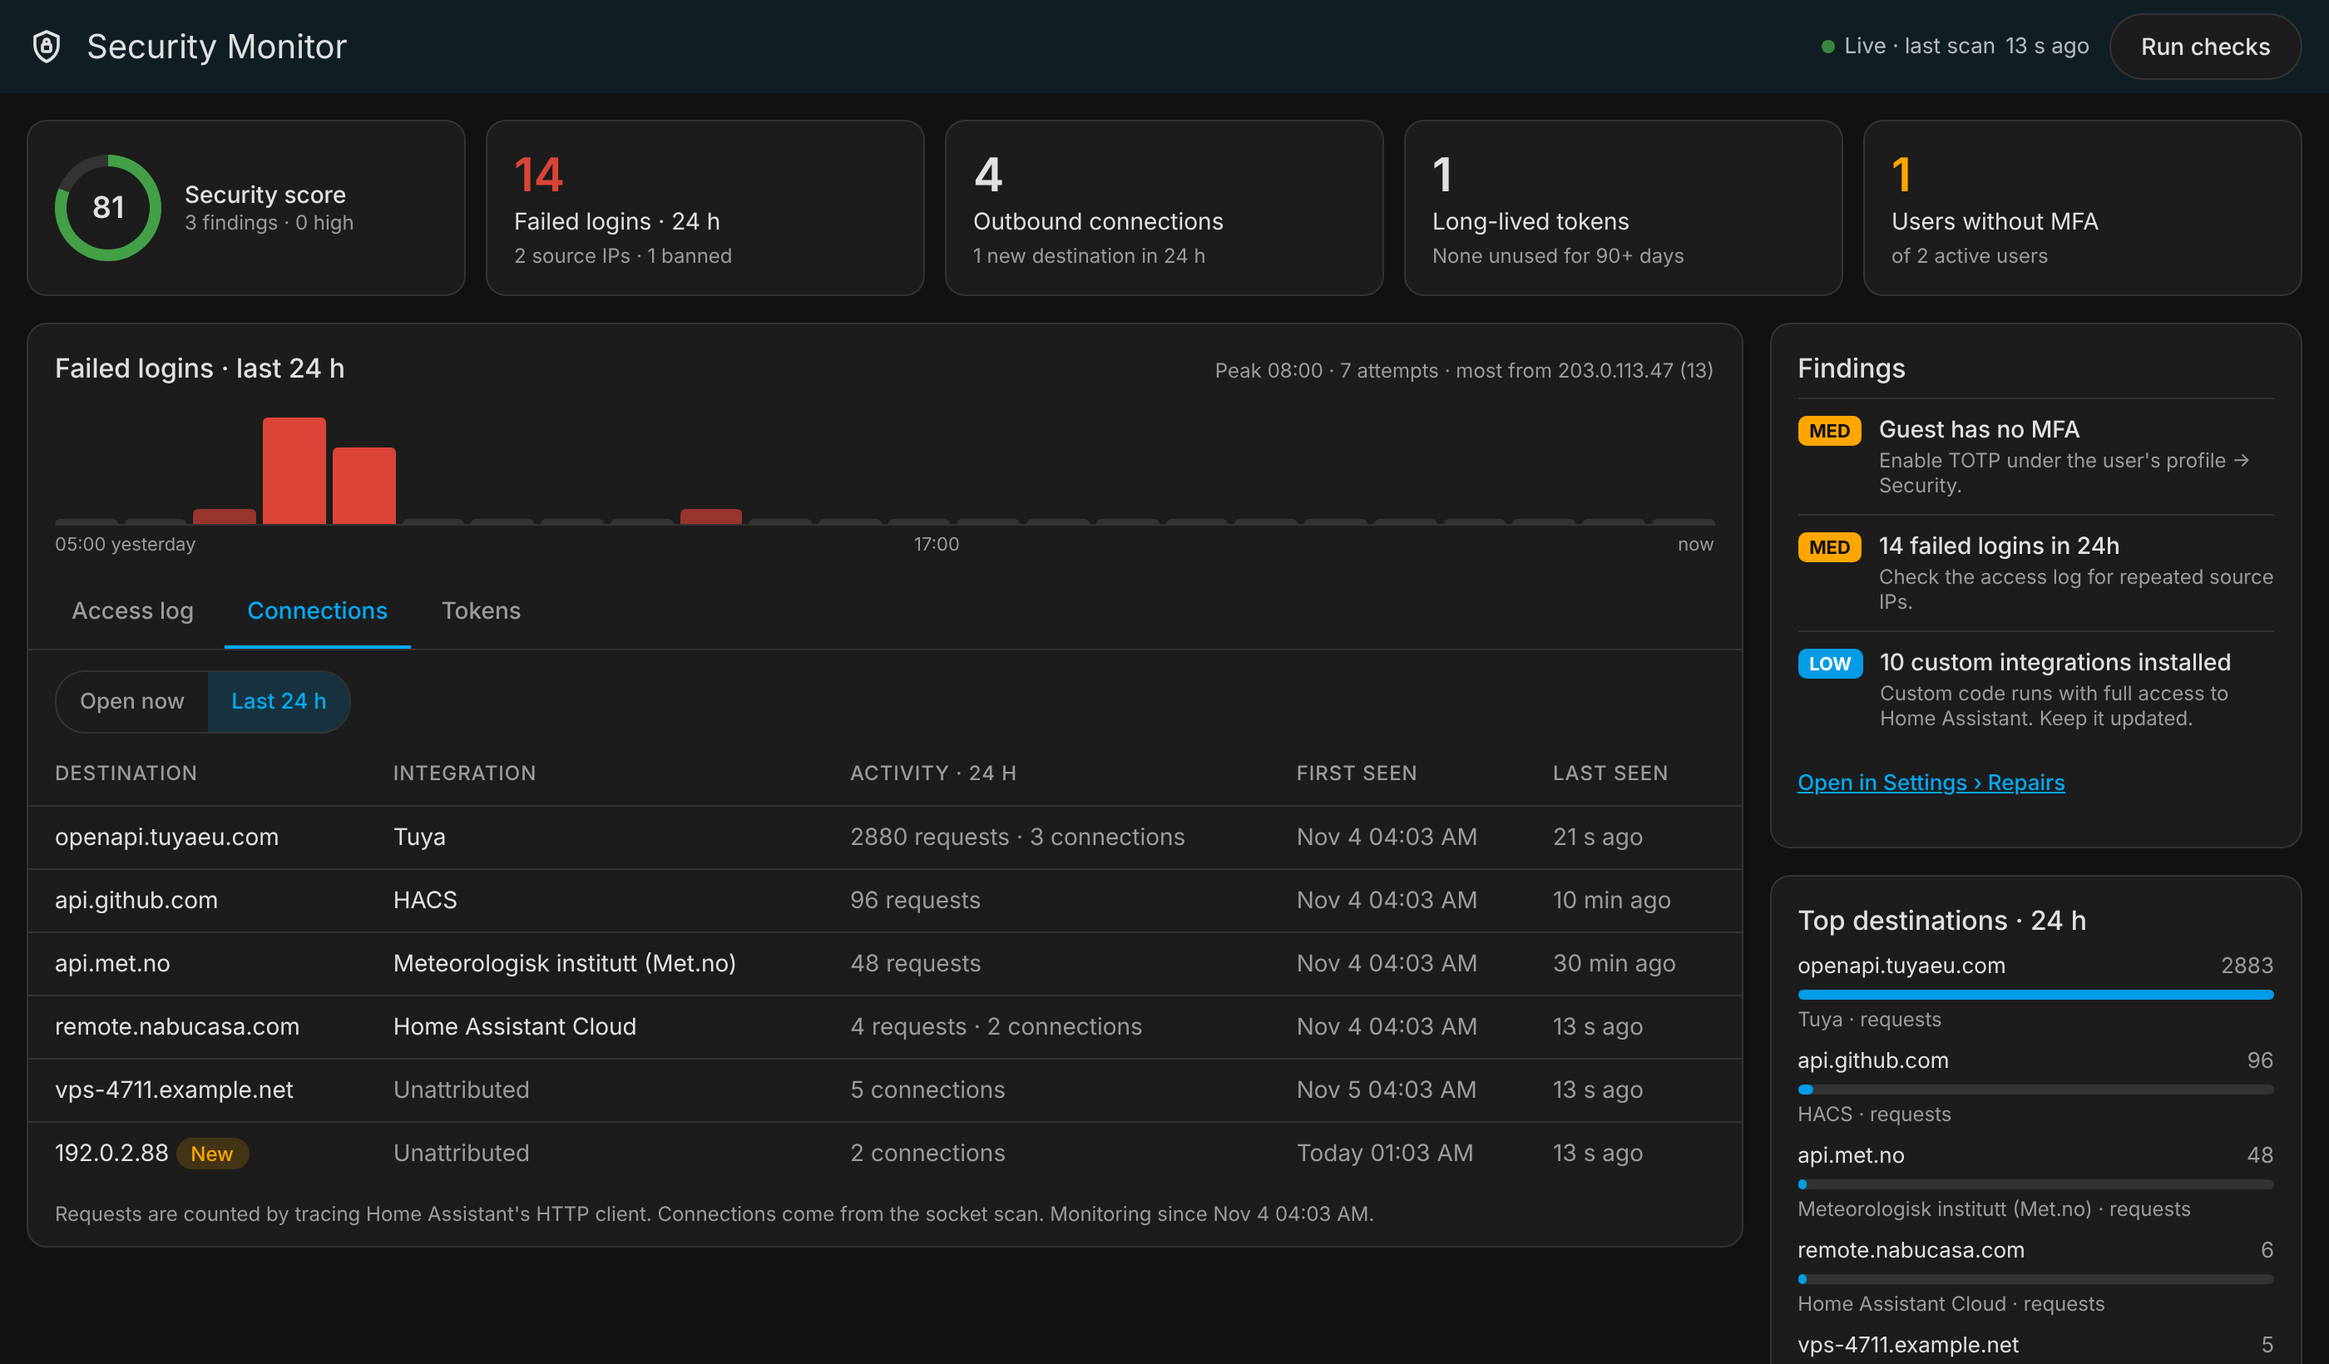
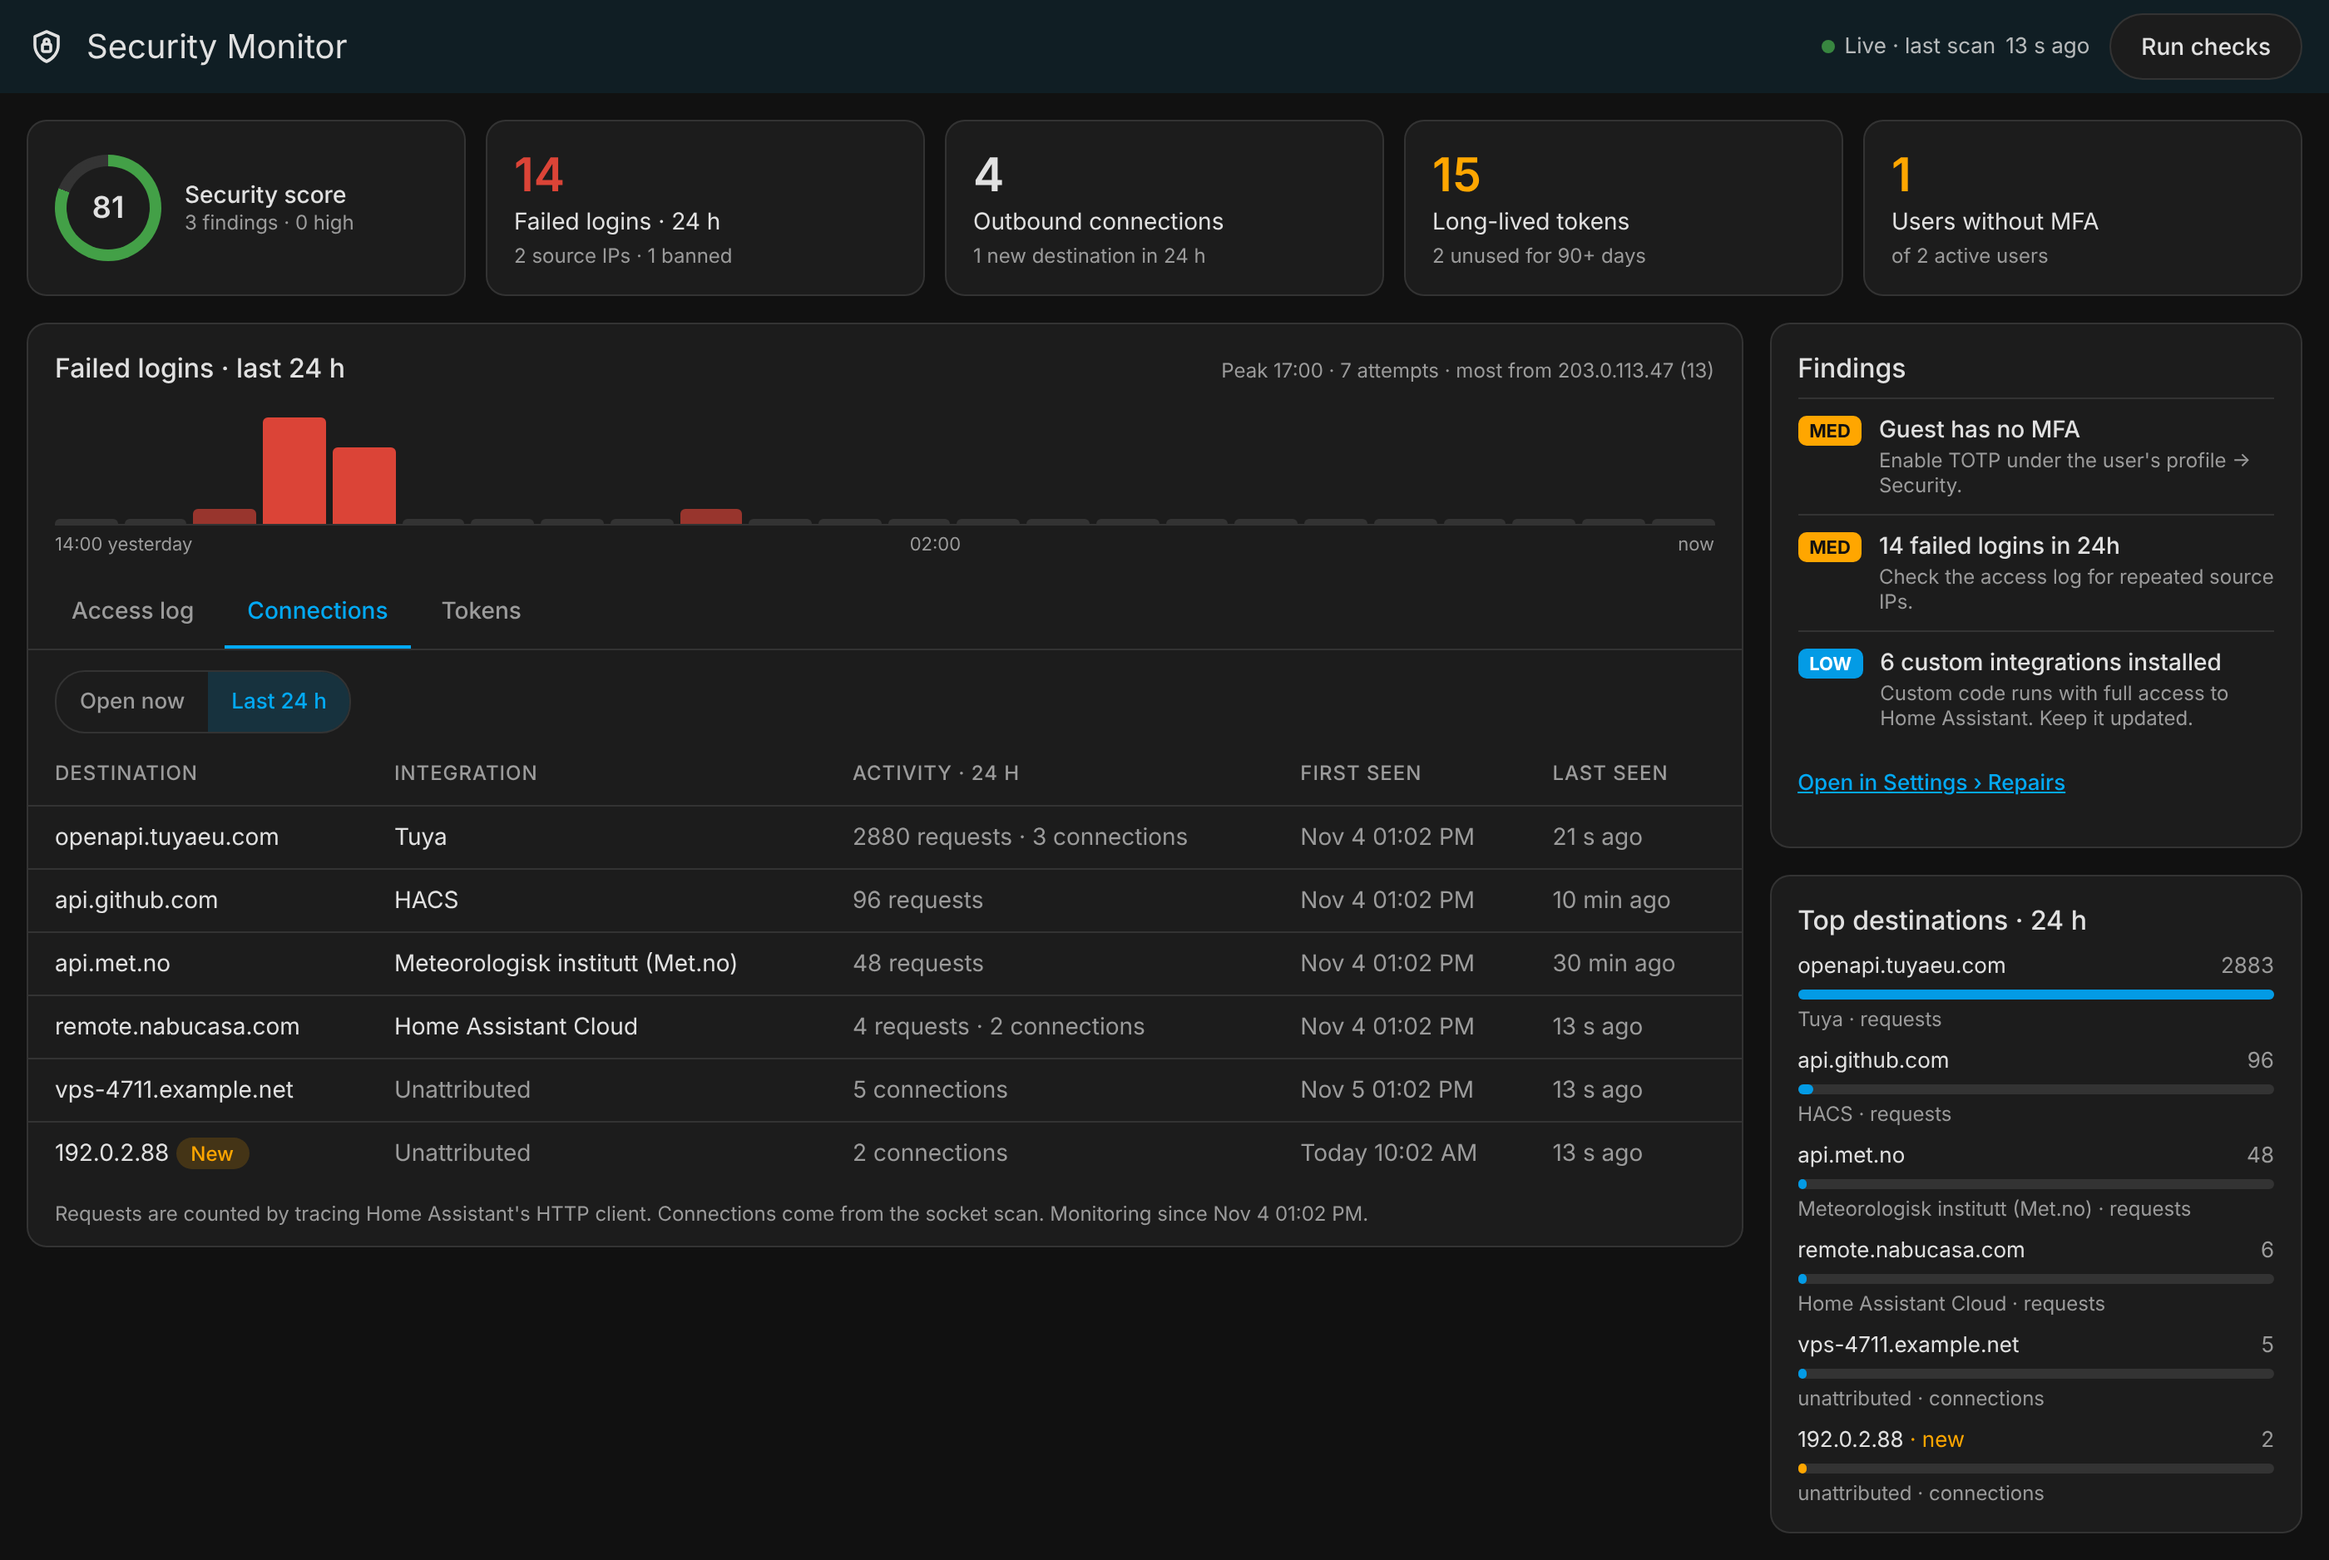
Add pagination to Access log, Connections and Tokens (v0.4.1)
- Pager under each table: range ("1–10 of 87"), first/previous/next/
  last buttons and the current page; hidden when everything fits
- Rows per page: 10 (default), 25, 50 or 100, shared by all tables and
  remembered per browser
- Each table (Access log, Open now, Last 24 h, Tokens) keeps its own
  page; the page is clamped when a list shrinks through live updates
- The panel now receives the whole access log buffer (up to 500
  events) instead of the newest 200
- Fix "1 days ago" → "1 day ago"
- README screenshots re-rendered with sample data, showing the pager

Claude-Session: https://claude.ai/code/session_01A4WxsJHtchbZ62AkhGdSiS

diff --git a/custom_components/security_monitor/frontend/security-monitor-panel.js b/custom_components/security_monitor/frontend/security-monitor-panel.js
@@ -18,7 +18,8 @@ const ago = (iso) => {
   if (s < 60) return `${s} s ago`;
   if (s < 3600) return `${Math.round(s / 60)} min ago`;
   if (s < 86400) return `${Math.round(s / 3600)} h ago`;
-  return `${Math.round(s / 86400)} days ago`;
+  const days = Math.round(s / 86400);
+  return `${days} ${days === 1 ? "day" : "days"} ago`;
 };
 
 const hourLabel = (date) => `${String(date.getHours()).padStart(2, "0")}:00`;
@@ -75,6 +76,15 @@ const fmtDateTime = (iso) => {
   return sameDay ? `Today ${time}` : `${d.toLocaleDateString([], { day: "numeric", month: "short" })} ${time}`;
 };
 
+const PAGE_SIZES = [10, 25, 50, 100];
+const DEFAULT_PAGE_SIZE = 10;
+const PAGE_SIZE_KEY = "security_monitor.page_size";
+const chevron = (d) => `<svg aria-hidden="true" viewBox="0 0 24 24" width="18" height="18" fill="none" stroke="currentColor" stroke-width="2" stroke-linecap="round" stroke-linejoin="round"><path d="${d}"></path></svg>`;
+const ICON_FIRST = chevron("M17 18l-6-6 6-6M7 6v12");
+const ICON_PREV = chevron("M15 18l-6-6 6-6");
+const ICON_NEXT = chevron("M9 18l6-6-6-6");
+const ICON_LAST = chevron("M7 18l6-6-6-6M17 6v12");
+
 const KIND_LABEL = { failed_login: "Failed login", banned: "IP banned", token_used: "Token used" };
 
 class SecurityMonitorPanel extends HTMLElement {
@@ -84,6 +94,12 @@ class SecurityMonitorPanel extends HTMLElement {
     this._data = null;
     this._tab = "access";
     this._netView = "now";
+    this._pages = { access: 0, now: 0, "24h": 0, tokens: 0 };
+    this._pageSize = DEFAULT_PAGE_SIZE;
+    try {
+      const saved = parseInt(localStorage.getItem(PAGE_SIZE_KEY), 10);
+      if (PAGE_SIZES.includes(saved)) this._pageSize = saved;
+    } catch (_) { /* storage unavailable: use the default */ }
     this._running = false;
   }
 
@@ -258,8 +274,43 @@ class SecurityMonitorPanel extends HTMLElement {
       </div>`;
   }
 
+  // Slice `items` for the table `key` and build its pager. The page is clamped,
+  // so a list that shrinks (live updates) never leaves you on an empty page.
+  _paginate(key, items, label) {
+    const size = this._pageSize;
+    const total = items.length;
+    const pages = Math.max(1, Math.ceil(total / size));
+    const page = Math.min(this._pages[key] || 0, pages - 1);
+    this._pages[key] = page;
+    const start = page * size;
+    const slice = items.slice(start, start + size);
+    if (total <= PAGE_SIZES[0]) return { slice, pager: "" };
+
+    const btn = (to, icon, text, disabled) =>
+      `<button type="button" class="pg" data-pager="${key}" data-to="${to}" aria-label="${text}" title="${text}" ${disabled ? "disabled" : ""}>${icon}</button>`;
+    const sizes = PAGE_SIZES.map((n) => `<option value="${n}" ${n === size ? "selected" : ""}>${n}</option>`).join("");
+    return {
+      slice,
+      pager: `
+        <nav class="pager" aria-label="${label} pages">
+          <label class="pg-size">Rows per page
+            <select data-pagesize>${sizes}</select>
+          </label>
+          <span class="pg-range">${start + 1}–${Math.min(start + size, total)} of ${total}</span>
+          <span class="pg-buttons">
+            ${btn(0, ICON_FIRST, "First page", page === 0)}
+            ${btn(page - 1, ICON_PREV, "Previous page", page === 0)}
+            <span class="pg-page">Page ${page + 1} of ${pages}</span>
+            ${btn(page + 1, ICON_NEXT, "Next page", page >= pages - 1)}
+            ${btn(pages - 1, ICON_LAST, "Last page", page >= pages - 1)}
+          </span>
+        </nav>`,
+    };
+  }
+
   _accessTable(d) {
-    const rows = d.auth.events.map((e) => `
+    const { slice, pager } = this._paginate("access", d.auth.events, "Access log");
+    const rows = slice.map((e) => `
       <tr>
         <td class="muted"><span data-ago="${esc(e.timestamp)}">${ago(e.timestamp)}</span></td>
         <td><span class="chip ${e.kind}">${KIND_LABEL[e.kind] || esc(e.kind)}</span></td>
@@ -270,7 +321,7 @@ class SecurityMonitorPanel extends HTMLElement {
     return `<table>
       <thead><tr><th>When</th><th>Event</th><th>Source IP</th><th>User</th><th>Detail</th></tr></thead>
       <tbody>${rows || `<tr><td colspan="5" class="empty">No access events recorded yet.</td></tr>`}</tbody>
-    </table>`;
+    </table>${pager}`;
   }
 
   _networkTable(d) {
@@ -294,7 +345,8 @@ class SecurityMonitorPanel extends HTMLElement {
 
   _networkNow(net) {
     const isNew = new Set(net.destinations_24h.filter((x) => x.new).map((x) => x.host));
-    const rows = net.connections.map((c) => {
+    const { slice, pager } = this._paginate("now", net.connections, "Open connections");
+    const rows = slice.map((c) => {
       const host = c.traced_host || c.hostname || c.remote_ip;
       const rdns = c.traced_host && c.hostname && c.hostname !== c.traced_host
         ? `<div class="sub" title="Reverse DNS">${esc(c.hostname)}</div>` : "";
@@ -309,12 +361,13 @@ class SecurityMonitorPanel extends HTMLElement {
     return `<table>
       <thead><tr><th>Destination</th><th>Remote</th><th>Integration</th><th>Seen</th></tr></thead>
       <tbody>${rows || `<tr><td colspan="4" class="empty">No external connections right now.</td></tr>`}</tbody>
-    </table>
+    </table>${pager}
     <div class="foot">${plural(net.connections.length, "established connection", "established connections")} · ${plural(net.listening.length, "listening socket", "listening sockets")}</div>`;
   }
 
   _network24h(net) {
-    const rows = net.destinations_24h.map((x) => {
+    const { slice, pager } = this._paginate("24h", net.destinations_24h, "Destinations");
+    const rows = slice.map((x) => {
       const activity = [
         x.requests ? plural(x.requests, "request", "requests") : null,
         x.connections ? plural(x.connections, "connection", "connections") : null,
@@ -334,12 +387,13 @@ class SecurityMonitorPanel extends HTMLElement {
     return `<table>
       <thead><tr><th>Destination</th><th>Integration</th><th>Activity · 24 h</th><th>First seen</th><th>Last seen</th></tr></thead>
       <tbody>${rows || `<tr><td colspan="5" class="empty">No outbound traffic recorded in the last 24 h.</td></tr>`}</tbody>
-    </table>
+    </table>${pager}
     <div class="foot">Requests are counted by tracing Home Assistant's HTTP client. Connections come from the socket scan. Monitoring since ${fmtDateTime(net.monitoring_since)}.</div>`;
   }
 
   _tokensTable(d) {
-    const rows = d.auth.tokens.map((t) => `
+    const { slice, pager } = this._paginate("tokens", d.auth.tokens, "Tokens");
+    const rows = slice.map((t) => `
       <tr>
         <td>${esc(t.user)}</td>
         <td>${esc(prettyClient(t.client_name, t.type === "long_lived_access_token" ? null : t.type))}</td>
@@ -351,7 +405,7 @@ class SecurityMonitorPanel extends HTMLElement {
     return `<table>
       <thead><tr><th>User</th><th>Client</th><th>Type</th><th>Last used</th><th>Last IP</th><th><span class="sr">Status</span></th></tr></thead>
       <tbody>${rows || `<tr><td colspan="6" class="empty">No tokens.</td></tr>`}</tbody>
-    </table>`;
+    </table>${pager}`;
   }
 
   _findings(d) {
@@ -493,6 +547,17 @@ class SecurityMonitorPanel extends HTMLElement {
         .fill { height:6px; border-radius:3px; }
         .foot { font-size:12px; color:var(--secondary-text-color); padding:10px 16px 12px; }
         .side .foot { padding:12px 0 0; }
+        .pager { display:flex; flex-wrap:wrap; align-items:center; justify-content:flex-end; gap:8px 20px;
+          padding:8px 16px; border-top:1px solid var(--divider-color); font-size:13px; color:var(--secondary-text-color); }
+        .pg-size { display:inline-flex; align-items:center; gap:8px; }
+        .pg-size select { min-height:32px; padding:0 6px; border-radius:6px; border:1px solid var(--divider-color);
+          background:var(--card-background-color); color:var(--primary-text-color); font:inherit; }
+        .pg-buttons { display:inline-flex; align-items:center; gap:2px; }
+        .pg-page { padding:0 8px; white-space:nowrap; }
+        button.pg { width:36px; height:36px; display:inline-grid; place-items:center; border:0; border-radius:50%;
+          background:none; color:var(--primary-text-color); cursor:pointer; }
+        button.pg:hover:not([disabled]) { background:var(--secondary-background-color); }
+        button.pg[disabled] { color:var(--disabled-text-color, var(--divider-color)); cursor:default; }
         .empty { padding:20px; text-align:center; color:var(--secondary-text-color); }
         .segbar { padding:12px 16px 4px; }
         .segs { display:inline-flex; border:1px solid var(--divider-color); border-radius:18px; overflow:hidden; }
@@ -515,6 +580,18 @@ class SecurityMonitorPanel extends HTMLElement {
     this.shadowRoot.querySelectorAll(".tabs button").forEach((b) =>
       b.addEventListener("click", () => {
         this._tab = b.dataset.tab;
+        this._render();
+      }));
+    this.shadowRoot.querySelectorAll("button[data-pager]").forEach((b) =>
+      b.addEventListener("click", () => {
+        this._pages[b.dataset.pager] = Math.max(0, parseInt(b.dataset.to, 10) || 0);
+        this._render();
+      }));
+    this.shadowRoot.querySelectorAll("select[data-pagesize]").forEach((sel) =>
+      sel.addEventListener("change", () => {
+        this._pageSize = parseInt(sel.value, 10) || DEFAULT_PAGE_SIZE;
+        try { localStorage.setItem(PAGE_SIZE_KEY, String(this._pageSize)); } catch (_) { /* not persisted */ }
+        Object.keys(this._pages).forEach((k) => { this._pages[k] = 0; });
         this._render();
       }));
     this.shadowRoot.querySelectorAll("button[data-netview]").forEach((b) =>

diff --git a/custom_components/security_monitor/auth_monitor.py b/custom_components/security_monitor/auth_monitor.py
@@ -211,5 +211,5 @@ class AuthMonitor:
             "top_source_24h": {"ip": top[0][0], "count": top[0][1]} if top else None,
             "failed_hourly": hourly,
             "failed_hourly_start": hourly_start.isoformat(),
-            "events": [asdict(e) for e in list(self.events)[:200]],
+            "events": [asdict(e) for e in self.events],
         }
